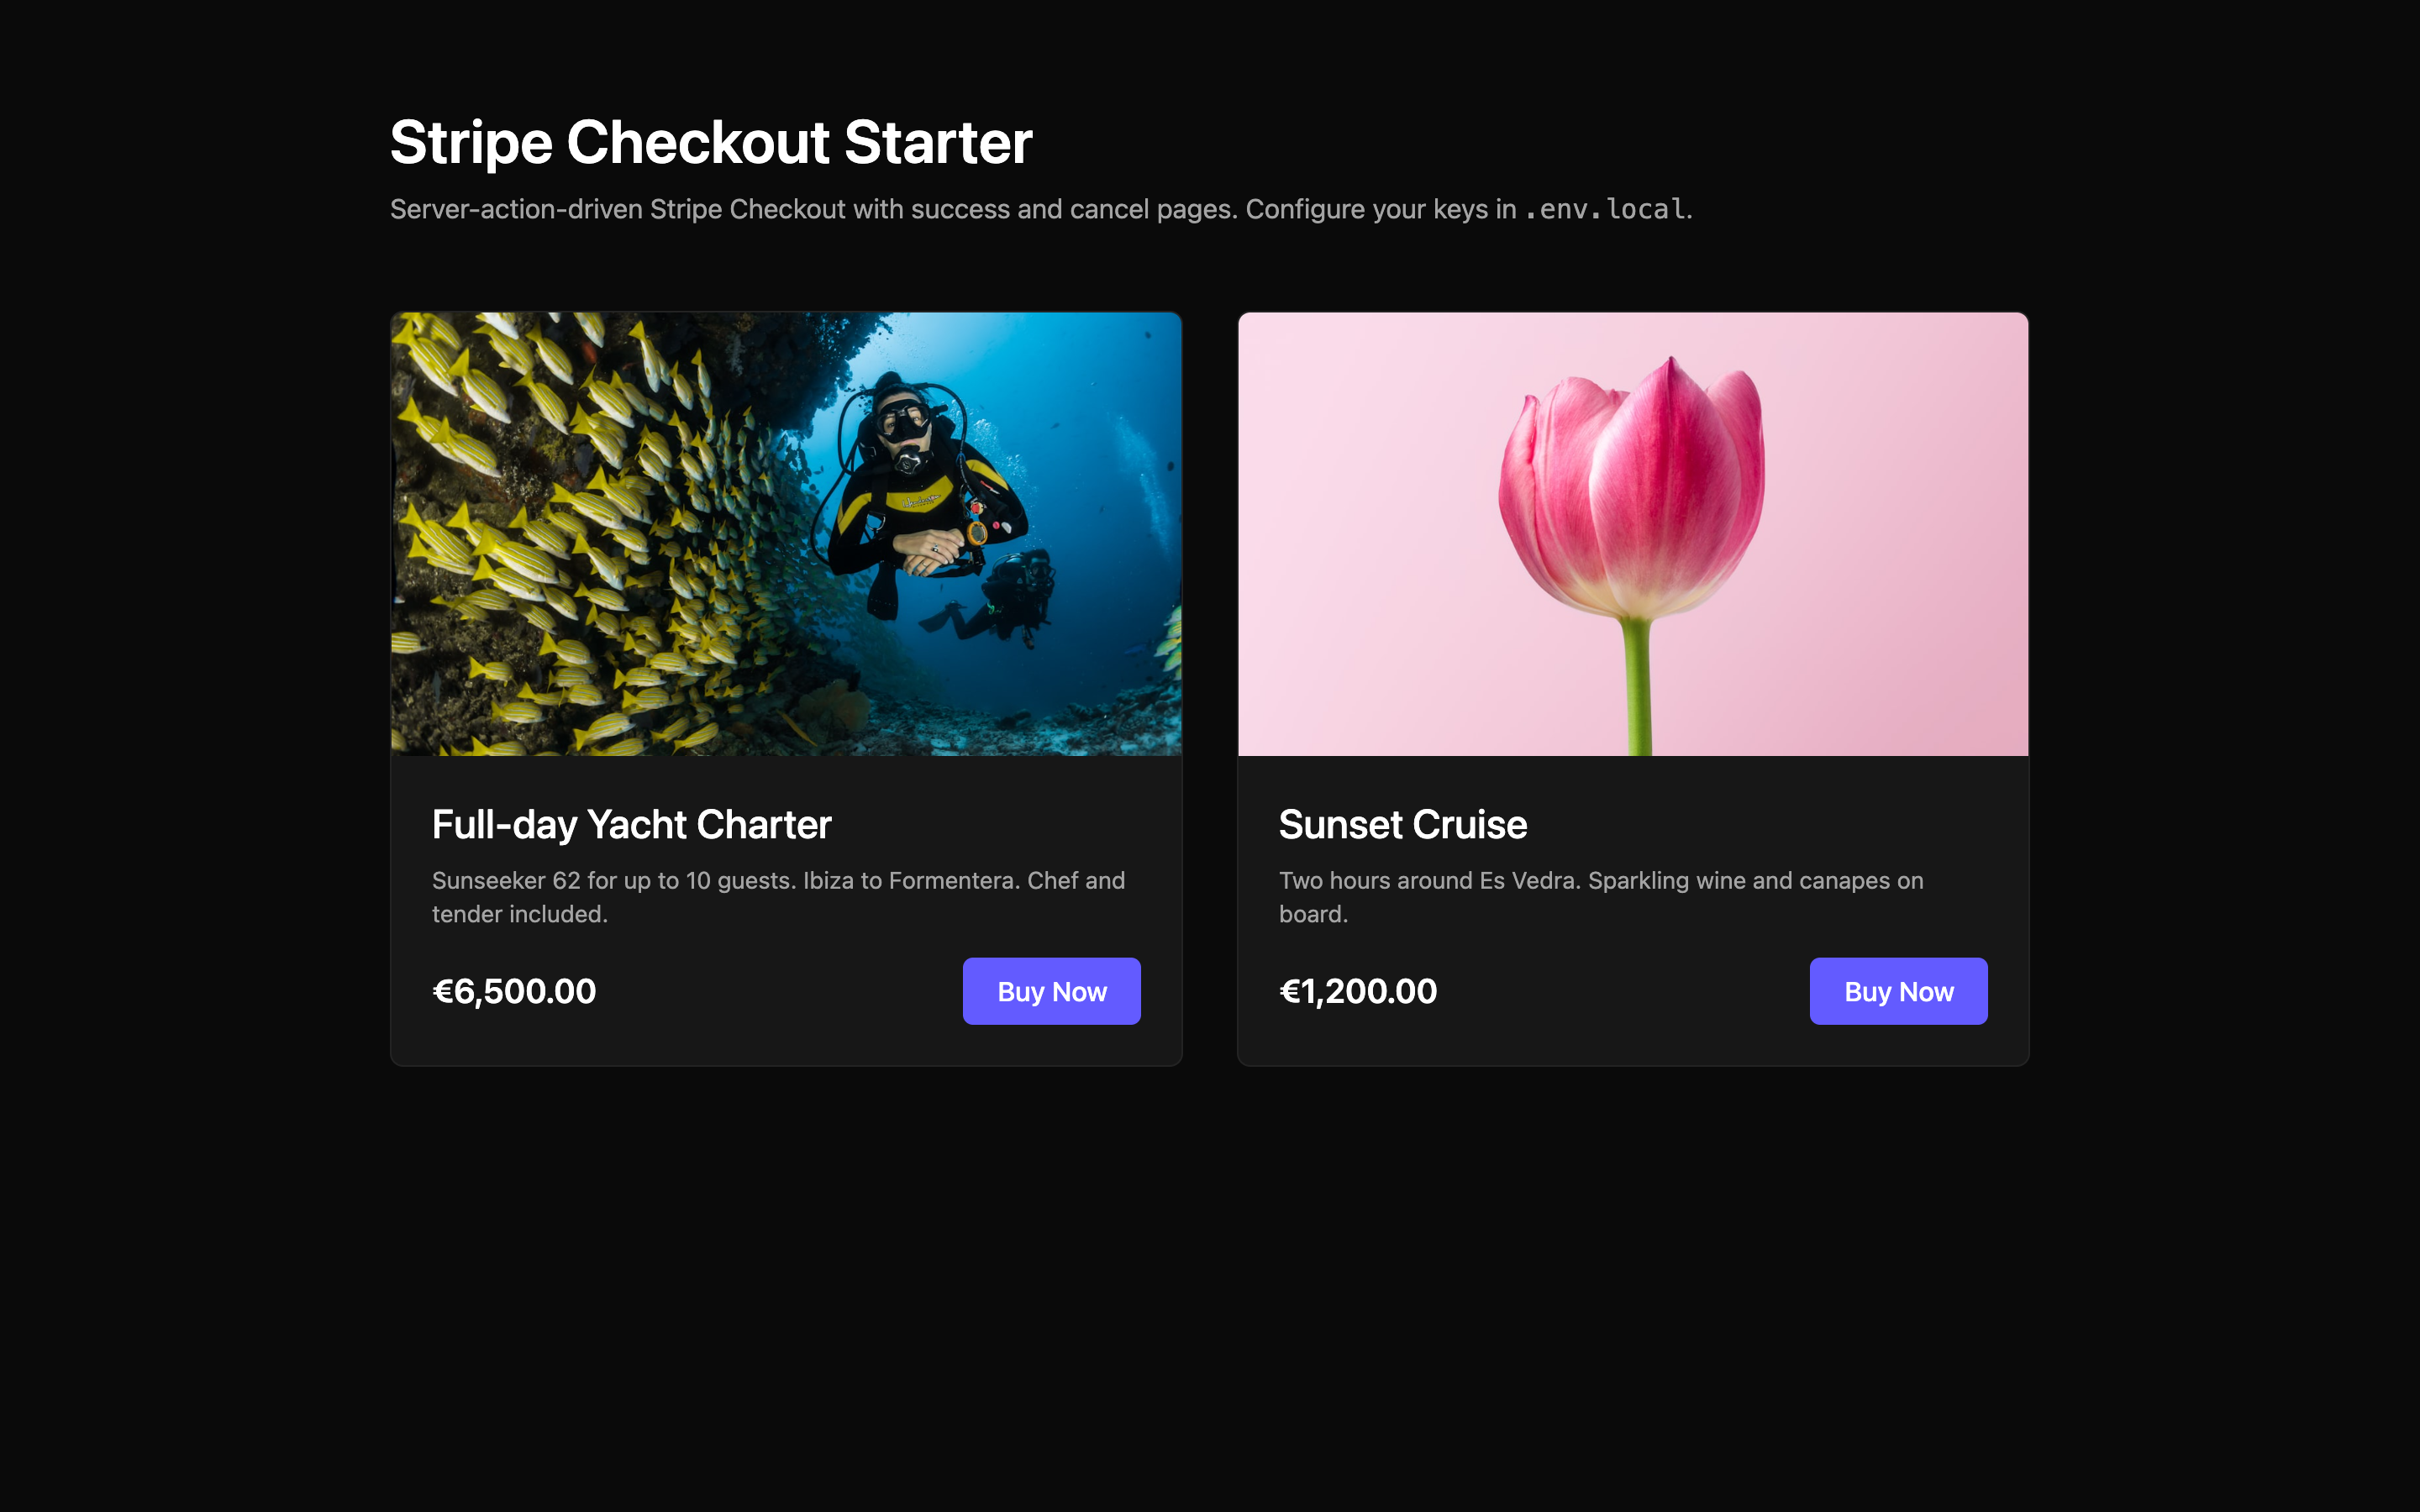
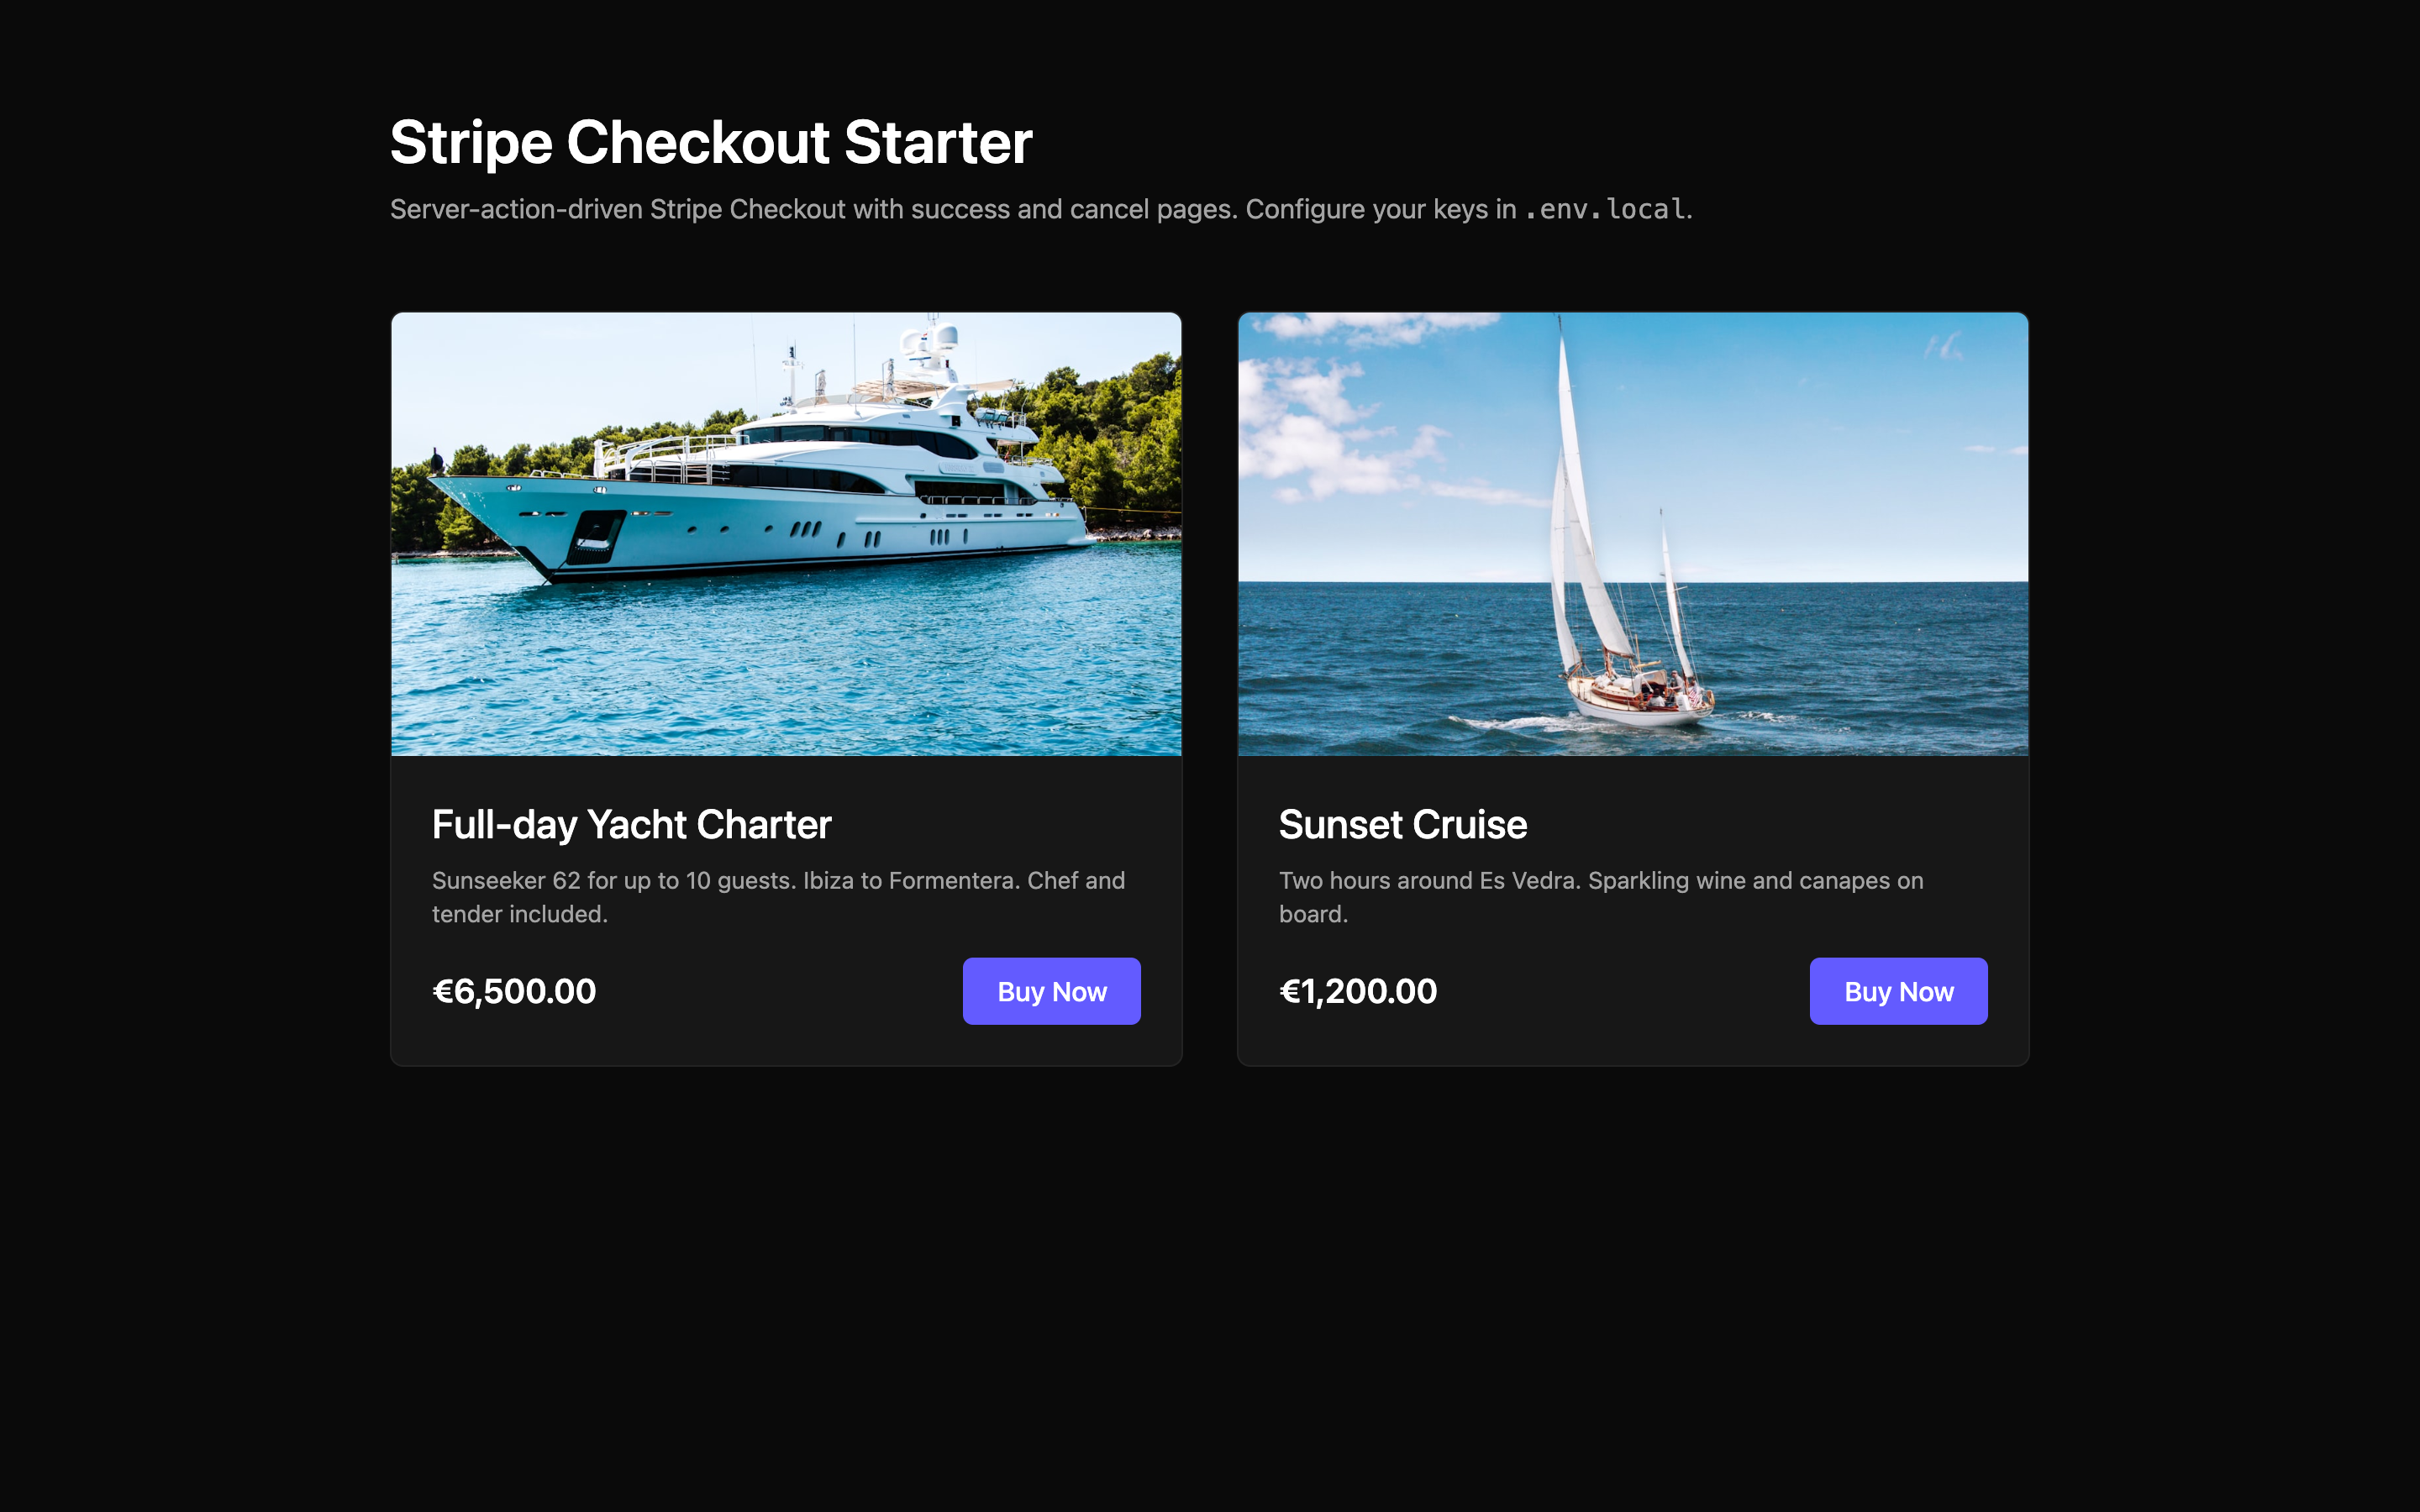
Fix product images: replace off-topic Unsplash IDs with real yacht photos

Changed region(s): [[0.1562, 0.1867, 0.8438, 0.4978]]

diff --git a/src/app/page.tsx b/src/app/page.tsx
@@ -7,7 +7,7 @@ const products = [
     description: "Sunseeker 62 for up to 10 guests. Ibiza to Formentera. Chef and tender included.",
     price: 650000,
     currency: "eur",
-    image: "https://images.unsplash.com/photo-1544551763-46a013bb70d5?w=1200&q=80",
+    image: "https://images.unsplash.com/photo-1567899378494-47b22a2ae96a?w=1200&q=80",
   },
   {
     id: "prod_sunset_cruise",
@@ -15,7 +15,7 @@ const products = [
     description: "Two hours around Es Vedra. Sparkling wine and canapes on board.",
     price: 120000,
     currency: "eur",
-    image: "https://images.unsplash.com/photo-1520763185298-1b434c919102?w=1200&q=80",
+    image: "https://images.unsplash.com/photo-1540946485063-a40da27545f8?w=1200&q=80",
   },
 ];
 